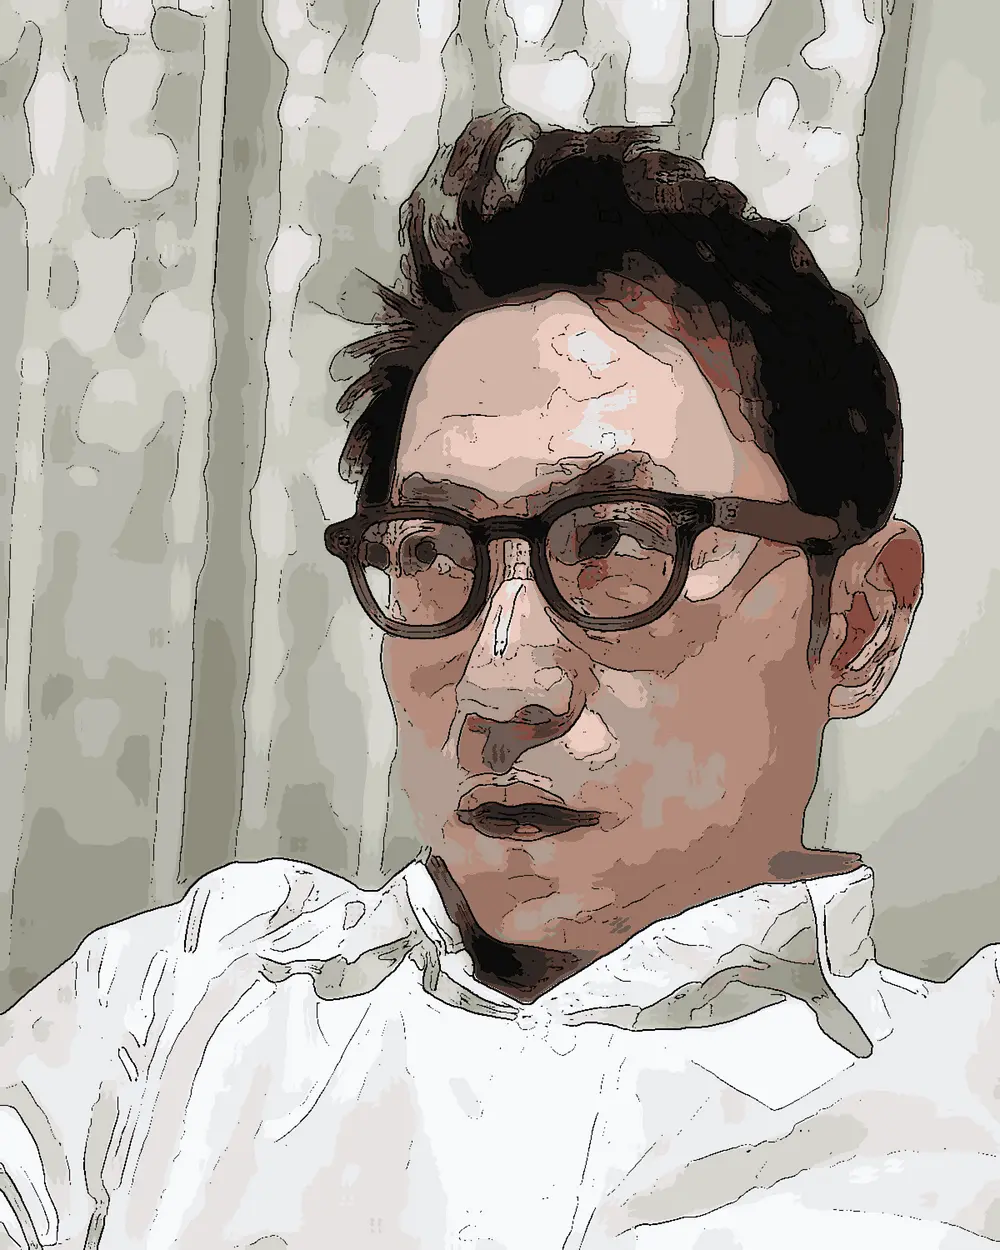
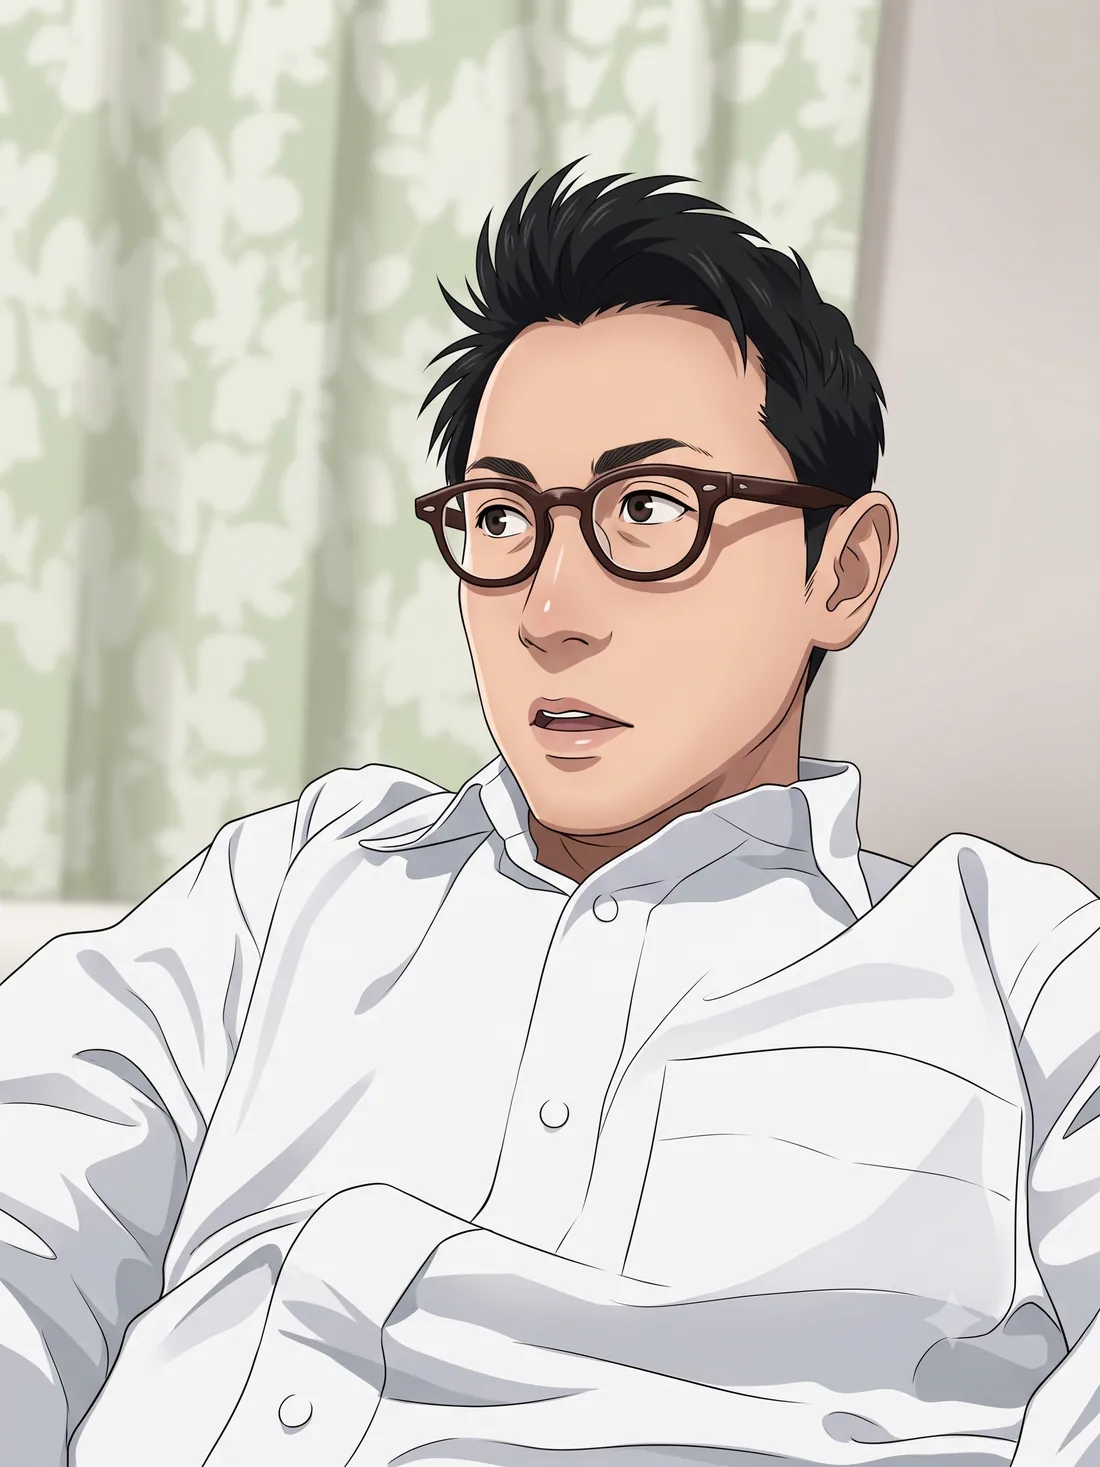
feat(about): 代表プロフィール画像をアニメ風イラストに差し替え
- public/profile-illust.webp を新アニメ風（1100x1467・79KB webp）に更新
- 縦横比変更（4:5→3:4）に合わせ width/height を 1100/1467 に更新（切れ/CLS防止）
- next build 緑・about ページで表示確認済

diff --git a/app/(site)/about/page.tsx b/app/(site)/about/page.tsx
@@ -75,8 +75,8 @@ export default function About() {
             <img
               src="/profile-illust.webp"
               alt="山田 悟司（イラスト）"
-              width={1000}
-              height={1250}
+              width={1100}
+              height={1467}
               className="mx-auto w-60 shrink-0 rounded-xl border border-line object-cover shadow-card sm:mx-0 sm:w-72"
             />
             <div>